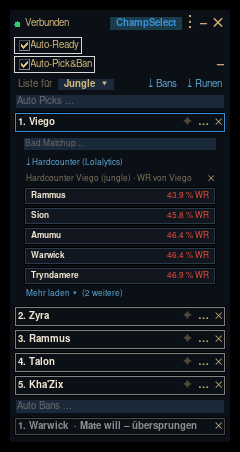
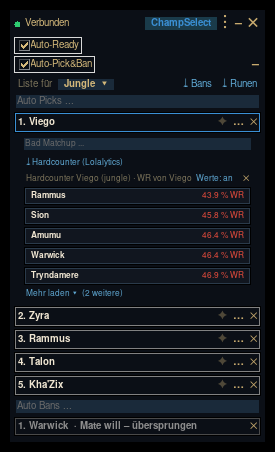
## 2.7.1 – Werte-Toggle & Import-Vorschau fertig - **Werte: an/aus** oben in jeder Vorschlagsliste (Bans, Hardcounter) blendet Winrate/Banrate aus oder ein; Einstellung wird gespeichert, Namen bleiben klickbar. - **Import-Vorschau** im Runen-Fenster unter „⤓ Von Lolalytics“: z. B. „Lolalytics: 49,1 
Emergent-Commit-Key: 04e02c4e263d087b7fd11203929197f1f6cc8788d9d9ace83dc98bcd8b41ba13

diff --git a/autopicker/lolpicker/ui.py b/autopicker/lolpicker/ui.py
@@ -9,7 +9,7 @@ from .ui_layout import ClassicOverlay
 from .ui_widgets import BAN_BORDER, CHAMPION_NAMES, PICK_BORDER, ROW_BG
 from .storage import ROLE_LABELS
 from .urls import LANES
-from .lolalytics import fetch_build, to_loadout, import_settings, fetch_bans, fetch_counters
+from .lolalytics import fetch_build, to_loadout, import_settings, fetch_bans, fetch_counters, preview_text
 import threading
 
 INGAME_PHASES = ('InProgress', 'GameStart', 'Reconnect')
@@ -23,7 +23,7 @@ class App(ClassicOverlay):
                 'auto_ban_champs', 'auto_pick_minimized', 'bad_matchups',
                 'hotkeys', 'weak_pc_mode', 'debug_mode', 'live_tracking',
                 'opacity_default', 'opacity_ingame', 'loadouts',
-                'flash_side', 'lolalytics_import', 'role_lists', 'list_role', 'close_scope')
+                'flash_side', 'lolalytics_import', 'role_lists', 'list_role', 'close_scope', 'show_rates')
 
     def __init__(self, root, controller):
         self.controller = controller
@@ -215,7 +215,7 @@ class App(ClassicOverlay):
                 else:
                     result = fetch_counters(name, role, cfg['tier'], cfg['patch'])
                     items = [(r['champion_id'], f"{r['winrate']:.1f} % WR") for r in result['counters']]
-                    title = f"Hardcounter {name} ({result['lane']}) · WR von {name}"
+                    title = f"Hardcounter {name} · {result['lane']}"
                 self.controller.emit({'type': 'suggestions', 'token': token, 'items': items, 'title': title, 'error': None})
             except (OSError, ValueError, KeyError) as error:
                 logging.getLogger(__name__).info('Lolalytics-Vorschläge (%s) fehlgeschlagen: %s', kind, error)
@@ -235,6 +235,21 @@ class App(ClassicOverlay):
         else:
             panel.set_items(message['items'], message['title'])
         self._resize_window()
+
+    def fetch_rune_preview(self, champ_id, key):
+        """Rune window: win rate + games of the Lolalytics rune page (tier, patch, build, role list = key) in the background."""
+        tier, patch, build, role = key
+        name = CHAMPION_NAMES.get(champ_id, str(champ_id))
+        settings = {'tier': tier, 'patch': patch, 'build': build}
+
+        def work():
+            try:
+                text = preview_text(fetch_build(name, role, tier, patch, build), settings)
+            except (OSError, ValueError, KeyError) as error:
+                logging.getLogger(__name__).info('Lolalytics-Vorschau %s fehlgeschlagen: %s', name, error)
+                text = 'Lolalytics-Vorschau nicht verfügbar (Internet / Champion-Seite?)'
+            self.controller.emit({'type': 'rune_preview', 'champ_id': champ_id, 'key': key, 'text': text})
+        threading.Thread(target=work, daemon=True, name='LolalyticsPreview').start()
 
     def _open_loadout(self, row):
         if self._loadout_window and self._loadout_window.win.winfo_exists():
@@ -380,6 +395,10 @@ class App(ClassicOverlay):
                 self.notice(message['text'])
             elif kind == 'suggestions':
                 self._suggestions_done(message)
+            elif kind == 'rune_preview':
+                window = self._loadout_window
+                if window and window.win.winfo_exists() and window.champ_id == message['champ_id']:
+                    window.show_preview(tuple(message['key']), message['text'])
             elif kind == 'import_done':
                 self._import_finished(message['results'], message['failed'], message['done'])
         if resize:

diff --git a/autopicker/lolpicker/loadout_ui.py b/autopicker/lolpicker/loadout_ui.py
@@ -105,6 +105,8 @@ class LoadoutWindow:
         self.state = dict(saved) if saved else None
         self.show_jungle = bool(saved and saved.get('jungle_spells'))
         self.show_import_settings = bool(saved and saved.get('lolalytics'))
+        self.previews = {}
+        self.preview = None
         self.win.bind('<Escape>', lambda e: self.close())
         self._wait_for_data()
 
@@ -213,9 +215,30 @@ class LoadoutWindow:
             remove.bind('<Button-1>', lambda e: self.remove())
         if self.show_import_settings:
             self._build_import_settings()
+        # Import preview: win rate + games of the Lolalytics rune page that "⤓ Von Lolalytics" would take.
+        self.preview = tk.Label(self.body, text='', bg=ROW_BG, fg=DIM_FG, font=('Segoe UI', 6), anchor='w')
+        self.preview.pack(fill=tk.X, padx=10, pady=(2, 0))
+        self._load_preview()
         self.status.config(text='Gewählt = hell mit goldenem Rand. Wird beim Lock-in automatisch gesetzt.')
         self.win.update_idletasks()
         self.win.geometry(f'{self.win.winfo_reqwidth()}x{self.win.winfo_reqheight()}')
+
+    def preview_key(self):
+        cfg = import_settings(self.app.lolalytics_import, self.state)
+        return (cfg['tier'], cfg['patch'], cfg['build'], self.app.list_role)
+
+    def _load_preview(self):
+        key = self.preview_key()
+        if key in self.previews:
+            self.preview.config(text=self.previews[key])
+            return
+        self.preview.config(text='Lolalytics-Vorschau wird geladen …')
+        self.app.fetch_rune_preview(self.champ_id, key)
+
+    def show_preview(self, key, text):
+        self.previews[key] = text
+        if self.preview is not None and self.preview.winfo_exists() and key == self.preview_key():
+            self.preview.config(text=text)
 
     def _build_import_settings(self):
         """Champion-specific Lolalytics rank/patch/build (collapsed): try e.g. 'Highest Win' for just this champion."""

diff --git a/autopicker/lolpicker/ui_widgets.py b/autopicker/lolpicker/ui_widgets.py
@@ -58,6 +58,8 @@ class SuggestionList:
         close = tk.Label(head, text='✕', bg=ROW_BG, fg='#c8aa6e', font=('Segoe UI', 6), cursor='hand2')
         close.pack(side=tk.RIGHT, padx=(0, 2))
         close.bind('<Button-1>', lambda e: on_close())
+        self.rates_btn = link_label(head, '', app.toggle_rates, FONT_ENTRY_SMALL)
+        self.rates_btn.pack(side=tk.RIGHT, padx=(0, 6))
         self.body = tk.Frame(self.frame, bg=ROW_BG)
         self.body.pack(fill=tk.X)
         self.status = tk.Label(self.frame, text='', bg=ROW_BG, fg='#7a7259', font=FONT_ENTRY_SMALL, anchor='w', wraplength=200, justify='left')
@@ -89,6 +91,7 @@ class SuggestionList:
         for row in self.rows:
             row.destroy()
         self.rows = []
+        self.rates_btn.config(text='Werte: an' if self.app.show_rates else 'Werte: aus')
         for cid, value in self.items[:self.shown]:
             self.rows.append(self._row(cid, value))
         if self.shown < len(self.items):
@@ -108,7 +111,8 @@ class SuggestionList:
         name = tk.Label(inner, text=CHAMPION_NAMES.get(cid, str(cid)) + ('  ✓' if taken else ''), bg='#11161f', fg=fg, font=FONT_ROW_SMALL, anchor='w')
         name.pack(side=tk.LEFT, padx=(3, 0))
         val = tk.Label(inner, text=value, bg='#11161f', fg='#4f4838' if taken else value_color(value), font=FONT_ENTRY_SMALL)
-        val.pack(side=tk.RIGHT, padx=(0, 3))
+        if self.app.show_rates:
+            val.pack(side=tk.RIGHT, padx=(0, 3))
         if not taken:
             for w in (outer, inner, name, val):
                 w.config(cursor='hand2')

diff --git a/tools/shot_overlay_states.py b/tools/shot_overlay_states.py
@@ -3,6 +3,7 @@ import os
 import subprocess
 import sys
 import tempfile
+import time
 import tkinter as tk
 from pathlib import Path
 
@@ -65,7 +66,30 @@ def main():
     app.active_bm_panel.suggest.on_pick(33)
     pump(root)
     shot(root, "overlay_hardcounter_picked.png")
+    app.toggle_rates()
+    pump(root)
+    shot(root, "overlay_hardcounter_rates_off.png")
+    app.toggle_rates()
     print("bad_matchups:", controller.settings.snapshot()["bad_matchups"])
+
+    controller.runes.start()
+    deadline = time.monotonic() + 60
+    while not controller.runes.ready() and time.monotonic() < deadline:
+        pump(root)
+        time.sleep(0.2)
+    app._open_loadout(app.pick_rows[0])
+    window = app._loadout_window
+    deadline = time.monotonic() + 60
+    while time.monotonic() < deadline:
+        app.process_queue()
+        pump(root)
+        if window.preview is not None and window.preview.cget("text").startswith("Lolalytics:"):
+            break
+        time.sleep(0.2)
+    print("preview:", window.preview.cget("text") if window.preview else None)
+    pump(root)
+    x, y, w, h = window.win.winfo_rootx(), window.win.winfo_rooty(), window.win.winfo_width(), window.win.winfo_height()
+    subprocess.run(["import", "-window", "root", "-crop", f"{w + 20}x{h + 20}+{x - 10}+{y - 10}", str(OUT / "loadout_preview.png")], check=True)
     app.quit()
 
 

diff --git a/autopicker/tests/test_lolalytics_roles.py b/autopicker/tests/test_lolalytics_roles.py
@@ -107,3 +107,14 @@ def test_counters_and_tierlist_parsing_and_patch_defaults():
     assert with_default_patch("https://lolalytics.com/lol/viego/build/?patch=7&tier=all") == "https://lolalytics.com/lol/viego/build/?patch=7&tier=all"
     assert clean_config({"schema": 3, "lolalytics_import": {"patch": "7"}})["lolalytics_import"]["patch"] == "30"
     assert clean_config({"schema": 4, "lolalytics_import": {"patch": "7"}})["lolalytics_import"]["patch"] == "7"
+
+
+def test_rune_page_preview_text():
+    from lolpicker.lolalytics import preview_text
+    html = qwik_page([8112, 8139, 8140, 8106], [8226, 8210], [5005, 5008, 5001], [4, 14])
+    build = parse_page(html)
+    assert build["winrate"] == 0.0 and build["games"] == 1234  # old fixture without 'wr'
+    text = preview_text({**build, "winrate": 49.08, "games": 1172656}, {"tier": "all", "patch": "30", "build": "pick"})
+    assert text == "Lolalytics: 49.1 % WR · 1.172.656 Spiele · Most Common, All Ranks, 30 Tage"
+    assert preview_text({"winrate": 51.26, "games": 900}, {"tier": "gold_plus", "patch": "16.19", "build": "win"}).endswith("Highest Win, Gold+, Patch 16.19")
+    assert clean_config({"show_rates": False})["show_rates"] is False and clean_config({})["show_rates"] is True

diff --git a/autopicker/lolpicker/lolalytics.py b/autopicker/lolpicker/lolalytics.py
@@ -87,7 +87,15 @@ def parse_page(html, build="pick"):
     if len(perks) != 6 or len(runes["mod"]) != 3 or len(spells) != 2:
         raise ValueError("Unvollständige Runen-Daten")
     return {"perks": [int(p) for p in perks], "shards": [int(s) for s in runes["mod"]], "spells": [int(s) for s in spells],
-            "lane": str(deref(root["header"]).get("lane", "")), "games": int(summary["runes"].get("n", 0) or 0)}
+            "lane": str(deref(root["header"]).get("lane", "")), "games": int(summary["runes"].get("n", 0) or 0),
+            "winrate": float(summary["runes"].get("wr", 0) or 0)}
+
+
+def preview_text(build, settings):
+    """One line for the rune window: win rate + games of the Lolalytics rune page with the settings in use."""
+    period = f"{settings['patch']} Tage" if str(settings["patch"]).isdigit() else f"Patch {settings['patch']}"
+    games = f"{build['games']:,}".replace(",", ".")
+    return f"Lolalytics: {build['winrate']:.1f} % WR · {games} Spiele · {BUILDS.get(settings['build'], settings['build'])}, {TIER_LABELS.get(settings['tier'], settings['tier'])}, {period}"
 
 
 def parse_counters(html, lane=""):

diff --git a/autopicker/lolpicker/ui_layout.py b/autopicker/lolpicker/ui_layout.py
@@ -43,6 +43,7 @@ class ClassicOverlay:
         self.loadouts = {}
         self.opacity_default, self.opacity_ingame = 0.75, 0.5
         self.list_role, self.role_lists, self.flash_side, self.close_scope = '', {}, 'left', 'lolalytics'
+        self.show_rates = True
         self.lolalytics_import = {'enabled': False, 'tier': 'all', 'patch': '30', 'build': 'pick'}
         self.general_lists = {'auto_pick_champs': [], 'auto_ban_champs': []}
         self.load_config()
@@ -282,6 +283,14 @@ class ClassicOverlay:
         suggest.set_loading()
         self._resize_window()
         self.fetch_suggestions('counters', suggest, panel.owner_champ_id)
+
+    def toggle_rates(self):
+        """Show or hide the win/ban rates in the suggestion lists (the names stay clickable)."""
+        self.show_rates = not self.show_rates
+        self.save_config()
+        for panel in (self.ban_suggest, self.active_bm_panel.suggest if self.active_bm_panel else None):
+            if panel is not None:
+                panel.render()
 
     def toggle_auto_pick(self):
         self.auto_pick_enabled = self.auto_pick_toggle_var.get()

diff --git a/autopicker/lolpicker/storage.py b/autopicker/lolpicker/storage.py
@@ -23,7 +23,7 @@ DEFAULTS = {
     "lockfile_path": "", "live_api_port": 2999,
     "opacity_default": 0.75, "opacity_ingame": 0.5, "loadouts": {},
     "flash_side": "left", "lolalytics_import": {"enabled": False, "tier": "all", "patch": "30", "build": "pick"},
-    "role_lists": {}, "list_role": "", "close_scope": "lolalytics",
+    "role_lists": {}, "list_role": "", "close_scope": "lolalytics", "show_rates": True,
 }
 OPACITY_MIN, OPACITY_MAX = 0.2, 1.0
 ROLES = ("top", "jungle", "middle", "bottom", "support")
@@ -105,7 +105,7 @@ def read_json(path, default):
 
 def clean_config(value):
     result = copy.deepcopy(DEFAULTS)
-    for key in ("auto_ready_enabled", "auto_pick_enabled", "auto_pick_minimized", "live_tracking", "weak_pc_mode", "debug_mode"):
+    for key in ("auto_ready_enabled", "auto_pick_enabled", "auto_pick_minimized", "live_tracking", "weak_pc_mode", "debug_mode", "show_rates"):
         if isinstance(value.get(key), bool):
             result[key] = value[key]
     for key in ("auto_pick_champs", "auto_ban_champs"):

diff --git a/autopicker/tests/test_ui_tk.py b/autopicker/tests/test_ui_tk.py
@@ -464,6 +464,13 @@ def test_bottom_padding_teammate_hint_and_suggestion_lists(tmp_path, bundle_dir)
         _pump(root)
         assert controller.settings.snapshot()['bad_matchups'] == {'234': [33]}
         assert len(app.active_bm_panel.bm_rows) == 1
+        suggest = app.active_bm_panel.suggest
+        _pump(root)
+        assert suggest.rates_btn.cget('text') == 'Werte: an' and any(w.winfo_ismapped() for w in suggest.rows[1].winfo_children()[0].winfo_children() if w.cget('text').endswith('WR'))
+        app.toggle_rates()
+        _pump(root)
+        assert controller.settings.snapshot()['show_rates'] is False and suggest.rates_btn.cget('text') == 'Werte: aus'
+        assert not any(w.cget('text').endswith('WR') for w in suggest.rows[1].winfo_children()[0].winfo_children() if w.winfo_ismapped())
         controller.emit({'type': 'suggestions', 'token': 12345, 'title': None, 'error': 'x', 'items': []})
         app.process_queue()  # stale token: ignored
     finally:

diff --git a/backend/tests/backend_test.py b/backend/tests/backend_test.py
@@ -8,8 +8,8 @@ import pytest
 import requests
 
 BASE_URL = os.environ.get("REACT_APP_BACKEND_URL").rstrip("/")
-ZIP_NAME = "LoL-Autopicker-2.7.0.zip"
-ZIP_PREFIX = "LoL-Autopicker-2.7.0"  # 2.7.0 (Zauber vorab, Ban-Vorschläge, Hardcounter, Alt+Shift+4)
+ZIP_NAME = "LoL-Autopicker-2.7.1.zip"
+ZIP_PREFIX = "LoL-Autopicker-2.7.1"  # 2.7.0 (Zauber vorab, Ban-Vorschläge, Hardcounter, Alt+Shift+4)
 
 
 @pytest.fixture(scope="module")
@@ -77,7 +77,7 @@ def test_download_zip_contains_expected_files(zip_body):
         manifest_path = f"{ZIP_PREFIX}/extension/chromium/manifest.json"
         assert manifest_path in names
         manifest = z.read(manifest_path).decode("utf-8", errors="replace")
-        assert '"2.7.0"' in manifest, f"manifest.json missing version 2.7.0: {manifest[:200]}"
+        assert '"2.7.1"' in manifest, f"manifest.json missing version 2.7.0: {manifest[:200]}"
 
 
 # --- error cases ---

diff --git a/tools/package_autopicker.py b/tools/package_autopicker.py
@@ -4,7 +4,7 @@ from pathlib import Path
 import shutil
 import zipfile
 
-VERSION = "2.7.0"
+VERSION = "2.7.1"
 NAME = f"LoL-Autopicker-{VERSION}.zip"
 ROOT = Path(__file__).resolve().parents[1] / "autopicker"
 for family in ("chromium", "firefox"):

diff --git a/autopicker/README.md b/autopicker/README.md
@@ -1,4 +1,4 @@
-# Rückmeldung 3 (nach 2.6.0) → umgesetzt in 2.7.0
+# Rückmeldung 3 (nach 2.6.0) → umgesetzt in 2.7.1
 
 > Zauber Vorab Setzen: Setze die Beschwörerzauber schon beim Hovern des Champions, nicht erst nach dem Lock-in · Ban-Import Lolalytics: Lass die meistgebannten Gegner-Champions pro Rolle als Vorschlag für deine Ban-Liste holen, und wenn ein mate einen champ picken will kann man den nicht bannen · bad matchup vorschläge für hardcounter … liste der 5 größten hardcounter und man kann weitere laden … gegen die Viego bei all ranks letzte 30 tage die schlechteste winrate hat, mit der winrate danebenstehend · standard einstellung für lol runen soll all ranks und 30 tage sein statt 7 tage · alt shift 4 funktioniert immer noch nicht, es findet keinen lolalytics tab obwohl ich mit alt shift 3 den schließen kann · unterer rand: ohne den Lolalytics-Button ist unten fast kein Rand, links/rechts dreimal so viel
 
@@ -9,6 +9,8 @@
 - **All Ranks + 30 Tage als Standard:** Die Lolalytics-Seiten, die Alt+Shift+1/2 und die Buttons öffnen, tragen jetzt `patch=30` (vorher nahm Lolalytics 7 Tage). Gespeicherte Seiten ohne Zeitraum bekommen 30 Tage ergänzt; Einstellungen mit „7 Tage“ aus älteren Versionen werden einmalig auf 30 Tage gesetzt.
 - **Alt+Shift+4 repariert:** „Nur Lolalytics-Tabs“ nutzt jetzt **denselben Erweiterungsbefehl wie Alt+Shift+3** (den jede installierte Erweiterungsversion kennt – auch ohne Neu-Laden) in allen verbundenen Browsern. Ursache: Lolalytics-Seiten tragen das Wort „Lolalytics“ nicht im Fenstertitel („Viego Build, Runes & Counters Guide …“), daher fand der Windows-Fallback nichts, sobald die Erweiterung den neuen Befehl nicht kannte. Der Fallback erkennt jetzt auch Titel mit „Build … Runes“, „Counters Guide“ oder deinem Champion-Namen. Die Antwort der Erweiterung steht im Protokoll.
 - **Unterer Rand:** Das Overlay hat jetzt immer einen festen unteren Rand (5 px, passend zu den 4 px links/rechts) – mit und ohne Champion-Zeile/Lolalytics-Button.
+- **Werte an/aus (2.7.1):** In jeder Vorschlagsliste (Bans, Hardcounter) steht oben „Werte: an/aus“ – damit blendest du Winrate bzw. Banrate aus oder wieder ein; die Einstellung wird gespeichert, die Namen bleiben klickbar.
+- **Import-Vorschau (2.7.1):** Im Runen-Fenster (✦) steht unter „⤓ Von Lolalytics“ sofort, was der Import holen würde: „Lolalytics: 49,1 % WR · 1.172.656 Spiele · Most Common, All Ranks, 30 Tage“ – mit genau den Einstellungen (allgemein oder champion-eigen), die gerade gelten. Änderst du unter „▸ Einstellungen“ Rang/Zeitraum/Build, lädt die Vorschau neu.
 
 
 # Rückmeldung des Nutzers (Stand nach 2.4) — Grundlage für 2.5
